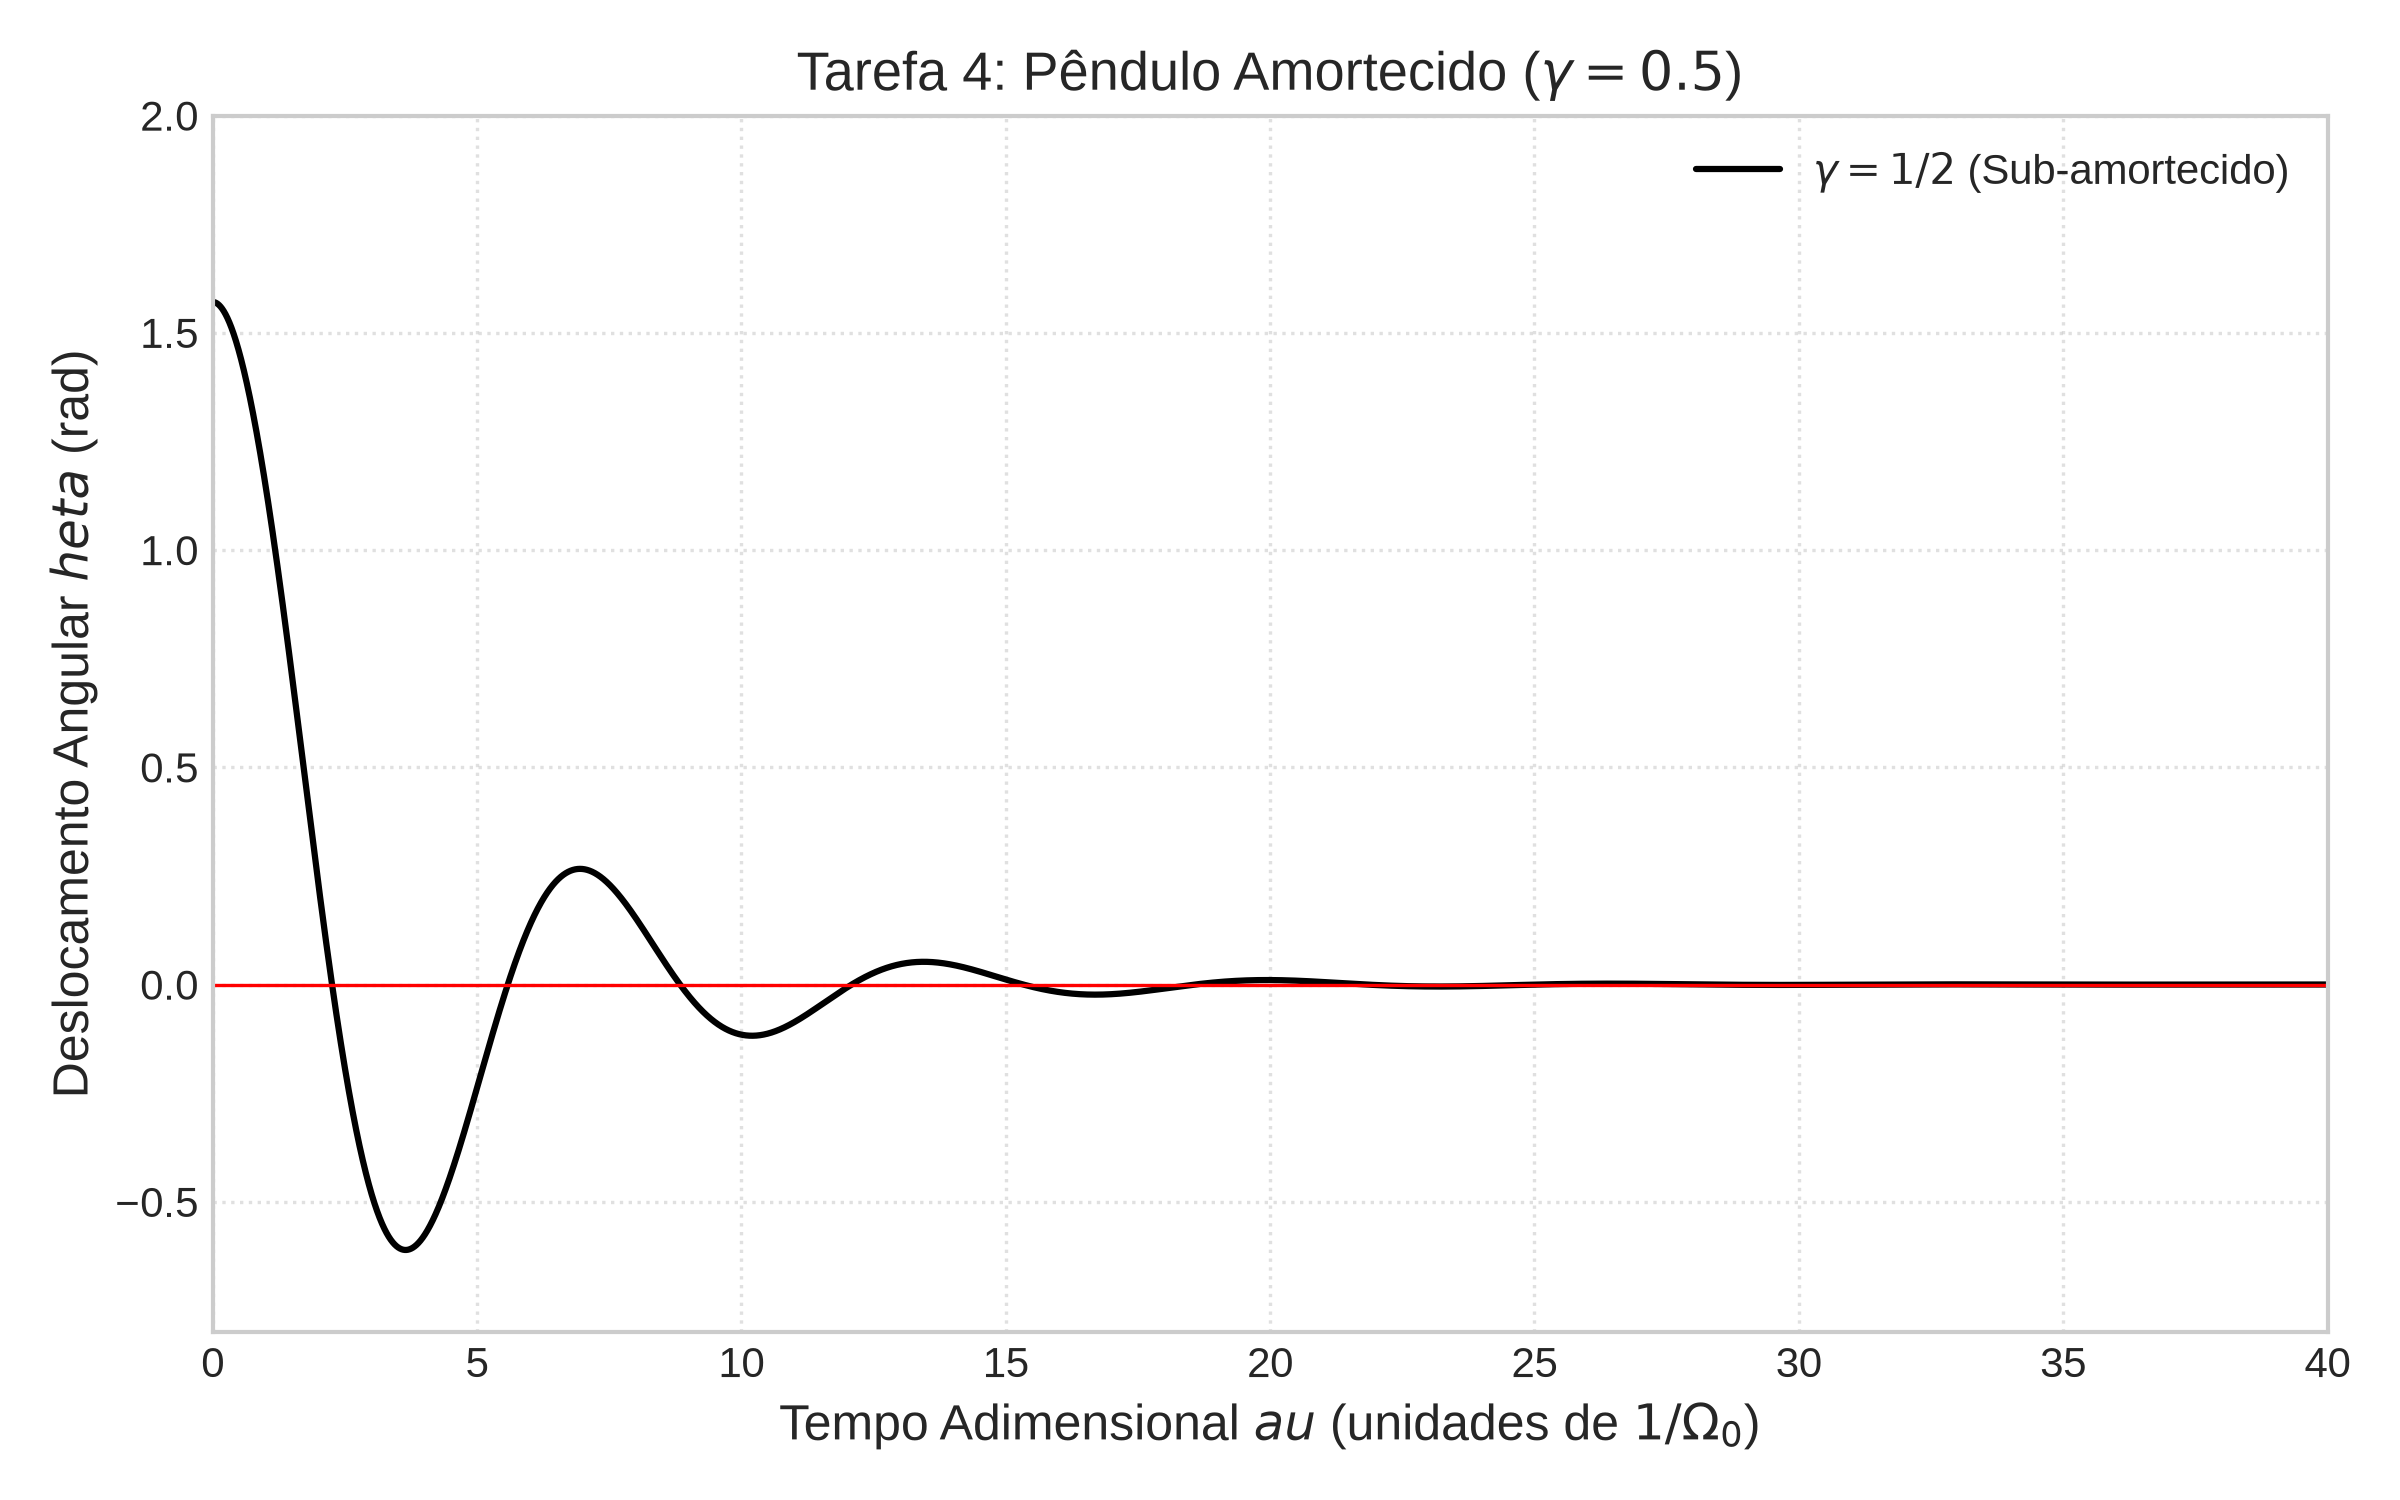
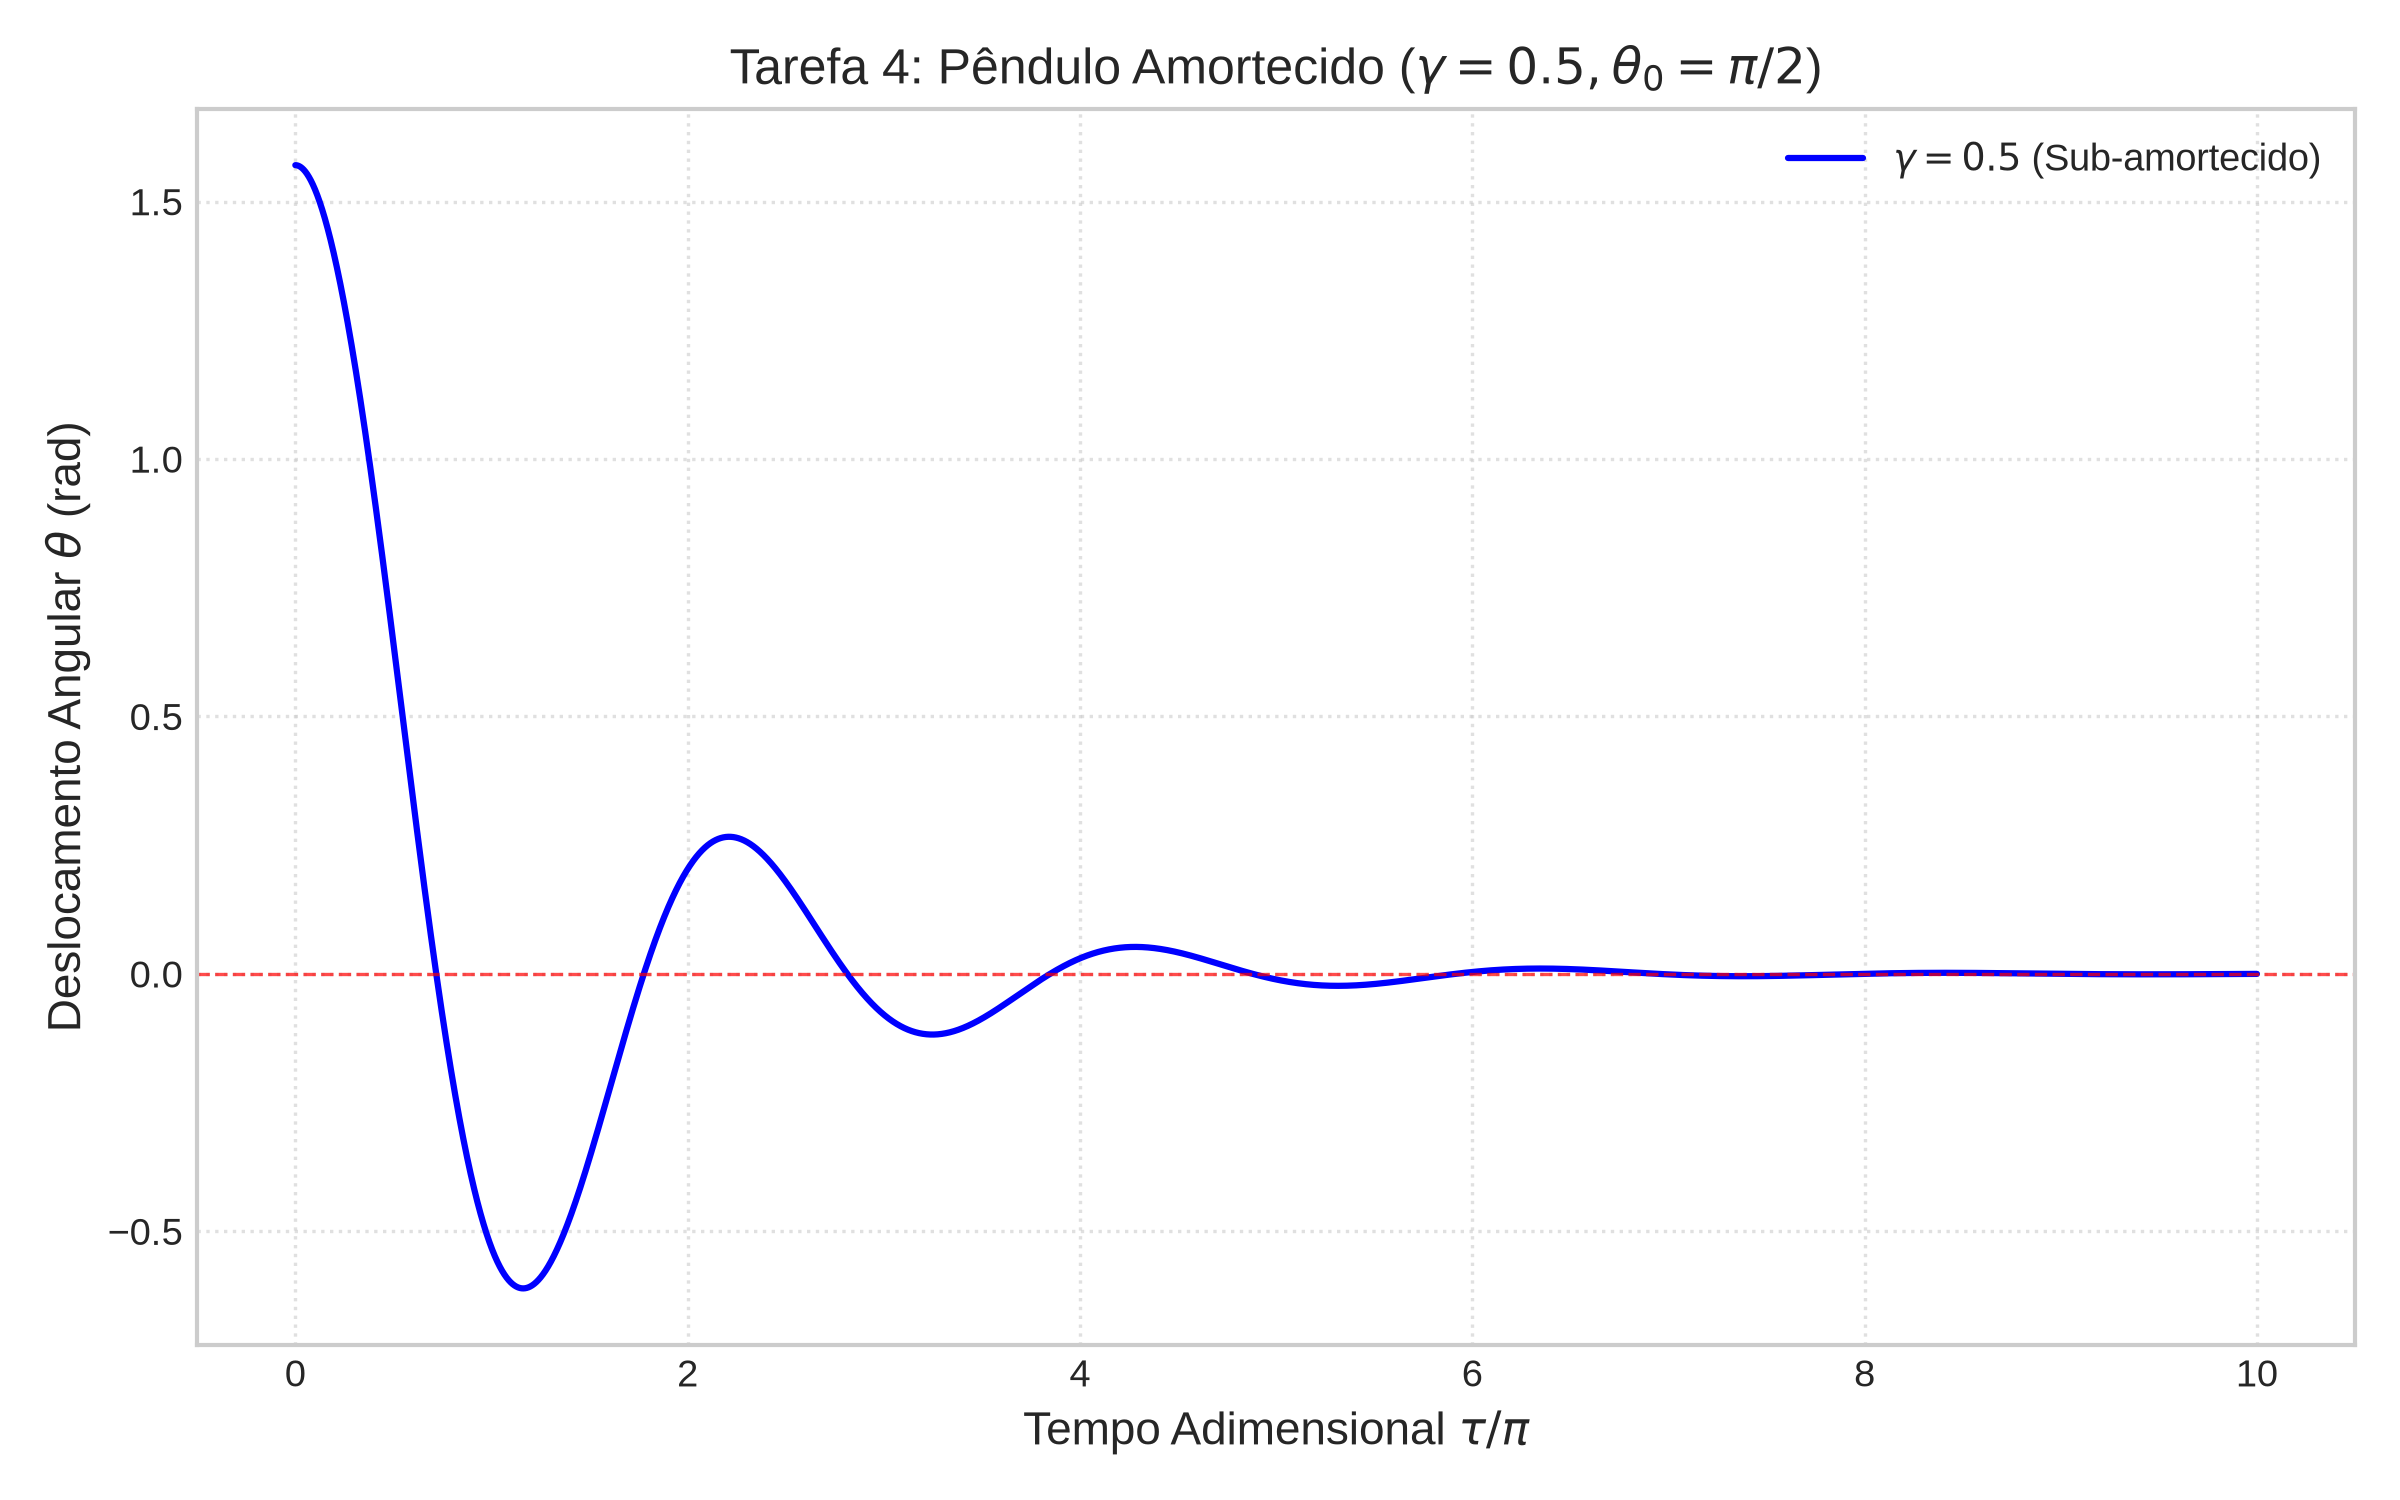
feat: add plt4 graphs

diff --git a/projeto-4/tarefa-4/plt4.py b/projeto-4/tarefa-4/plt4.py
@@ -1,63 +1,77 @@
 import numpy as np
 import matplotlib.pyplot as plt
+import os
 
 plt.style.use("seaborn-v0_8-whitegrid")
 plt.rcParams.update(
     {
-        "font.size": 11,
-        "axes.labelsize": 12,
-        "axes.titlesize": 13,
-        "xtick.labelsize": 10,
-        "ytick.labelsize": 10,
-        "legend.fontsize": 10,
+        "font.size": 10,
+        "axes.labelsize": 11,
+        "axes.titlesize": 12,
+        "xtick.labelsize": 9,
+        "ytick.labelsize": 9,
+        "legend.fontsize": 9,
         "figure.autolayout": True,
     }
 )
 
 
-def simula_pendulo_amortecido(theta0, omega0, gama, dtau, tau_max):
-    N = int(tau_max / dtau) + 1
-    tau = np.linspace(0, tau_max, N)
-    theta = np.zeros(N)
-    omega = np.zeros(N)
-
-    theta[0] = theta0
-    omega[0] = omega0
-
-    for i in range(N - 1):
-        omega[i + 1] = omega[i] + dtau * (-np.sin(theta[i]) - gama * omega[i])
-        theta[i + 1] = theta[i] + omega[i + 1] * dtau
-
-    return tau, theta, omega
-
-
 def plot_tarefa4():
-    dtau = 0.001
-    tau_max = 40.0
-    gamma = 0.5  # gama = 1/2
-    theta0 = np.pi / 2.0  # pi/2 rad (~90 deg)
-    omega0 = 0.0
+    f_dat = "tarefa-4.dat"
 
-    tau, theta, omega = simula_pendulo_amortecido(theta0, omega0, gamma, dtau, tau_max)
+    if not os.path.exists(f_dat):
+        raise FileNotFoundError(
+            f"Erro: Arquivo '{f_dat}' do Fortran não encontrado para a Tarefa 4."
+        )
 
+    dados = np.loadtxt(f_dat)
+    tau, theta, omega = dados[:, 0], dados[:, 1], dados[:, 2]
+
+    # 1. FIGURA TEMPORAL: theta(tau)
     plt.figure(figsize=(8, 5))
-    plt.plot(tau, theta, "k-", label=r"$\gamma = 1/2$ (Sub-amortecido)", linewidth=1.5)
-    plt.axhline(0.0, color="r", linestyle="-", linewidth=0.8)
+    plt.plot(
+        tau / np.pi,
+        theta,
+        "b-",
+        label=r"$\gamma = 0.5$ (Sub-amortecido)",
+        linewidth=1.5,
+    )
+    plt.axhline(0.0, color="r", linestyle="--", linewidth=0.8, alpha=0.7)
 
-    plt.title(r"Tarefa 4: Pêndulo Amortecido ($\gamma = 0.5$)")
-    plt.xlabel(r"Tempo Adimensional $	au$ (unidades de $1/\Omega_0$)")
-    plt.ylabel(r"Deslocamento Angular $	heta$ (rad)")
-    plt.xlim(0, 40)
-    plt.ylim(-0.8, 2.0)
+    plt.title(r"Tarefa 4: Pêndulo Amortecido ($\gamma = 0.5, \theta_0 = \pi/2$)")
+    plt.xlabel(r"Tempo Adimensional $\tau / \pi$")
+    plt.ylabel(r"Deslocamento Angular $\theta$ (rad)")
     plt.legend(loc="upper right")
     plt.grid(True, linestyle=":", alpha=0.6)
 
     plt.savefig("grafico_tarefa4_pendulo_amortecido.png", dpi=300)
     plt.close()
-    print("-> Salvo: grafico_tarefa4_pendulo_amortecido.png")
+
+    # 2. ESPAÇO DE FASE: omega vs theta
+    plt.figure(figsize=(7, 6))
+    plt.plot(theta, omega, "b-", linewidth=1.2, label=r"Trajetória ($\gamma = 0.5$)")
+    plt.plot(
+        theta[0],
+        omega[0],
+        "go",
+        markersize=6,
+        label=r"Início ($\theta_0 = \pi/2, \omega_0 = 0$)",
+    )
+    plt.plot(0, 0, "rx", markersize=8, label=r"Atrator (Origem: $(0,0)$)")
+
+    plt.title(
+        r"Tarefa 4: Espaço de Fase do Pêndulo Amortecido ($\omega \times \theta$)"
+    )
+    plt.xlabel(r"Ângulo $\theta$ (rad)")
+    plt.ylabel(r"Velocidade Angular $\omega = d\theta/d\tau$")
+    plt.legend(loc="upper right")
+    plt.grid(True, linestyle=":", alpha=0.6)
+
+    plt.savefig("grafico_tarefa4_espaco_fase.png", dpi=300)
+    plt.close()
+
+    print("-> Gráficos da Tarefa 4 gerados com sucesso!")
 
 
 if __name__ == "__main__":
-    print("Gerando gráficos da Tarefa 4...")
     plot_tarefa4()
-    print("Concluído!")
